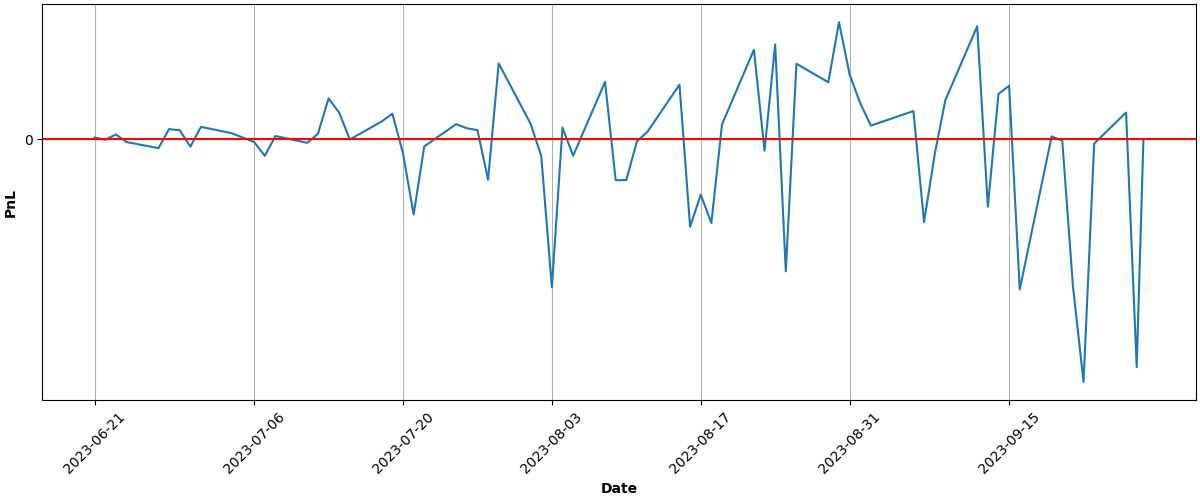
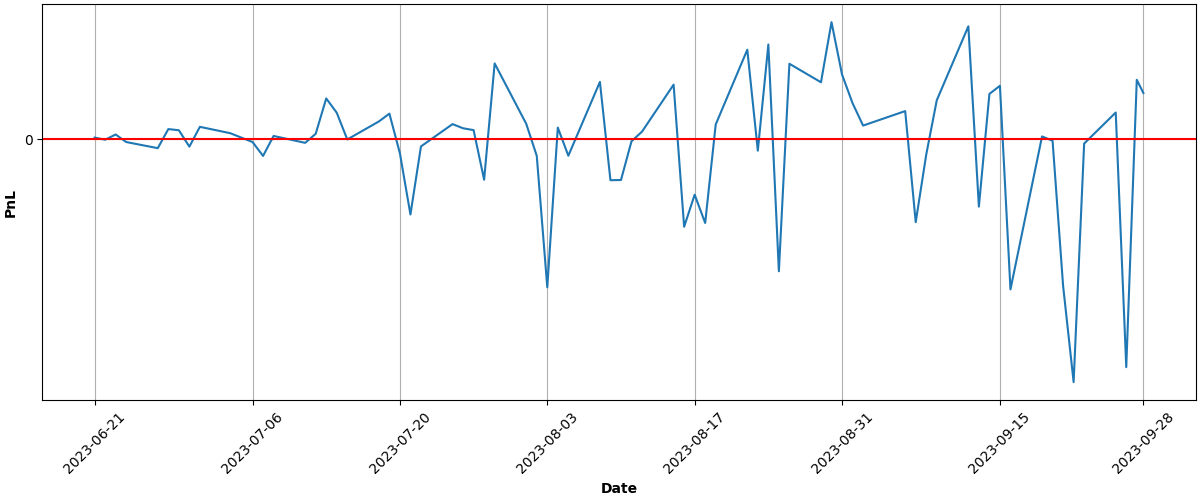
Automated Buy At Thu Sep 28 15:04:23 UTC 2023 Run ID 6340738890

diff --git a/README.md b/README.md
@@ -68,9 +68,9 @@ Results
 
 | Asset | Average Price | Current Price | ROI | 📈 |
 | --- | --- | --- | --- | --- |
-| FNGU | $178.855583636 | $142.59 | -20.28% | &#128308;&#128546; |
-| SVIX | $28.503944828 | $26.27 | -7.84% | &#128308;&#128546; |
-| **Total** |  |  | **-13.63%** | &#128308;&#128557; |
+| FNGU | $178.26395009 | $144.02 | -19.21% | &#128308;&#128546; |
+| SVIX | $28.503944828 | $27.81 | -2.43% | &#128308;&#128546; |
+| **Total** |  |  | **-10.30%** | &#128308;&#128557; |
 
 ### PnL over time (calculations may not be accurate):
 
@@ -81,6 +81,6 @@ Results
 ---
 
 
-Updated at 2023-09-27 15:05:25
+Updated at 2023-09-28 15:04:43
 
 
